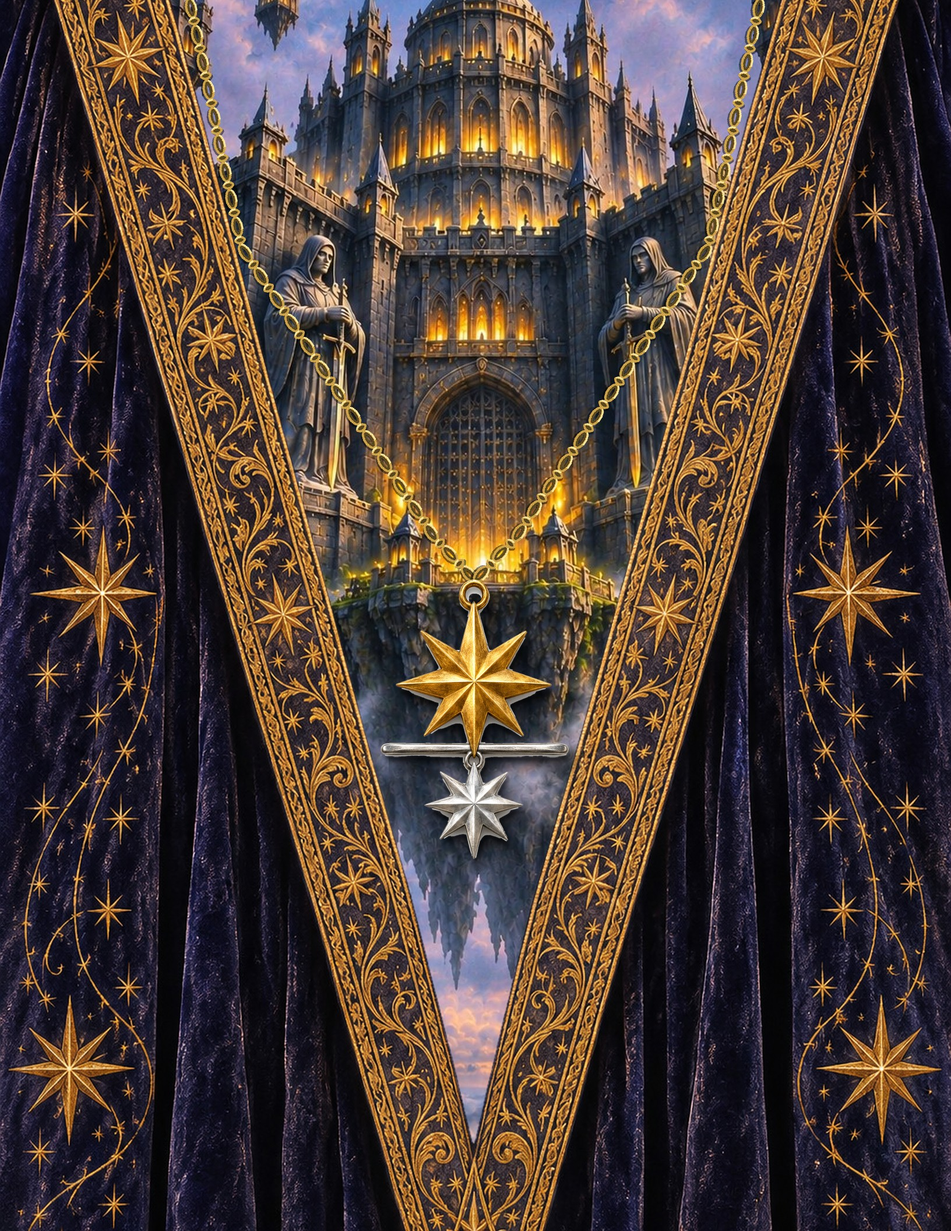
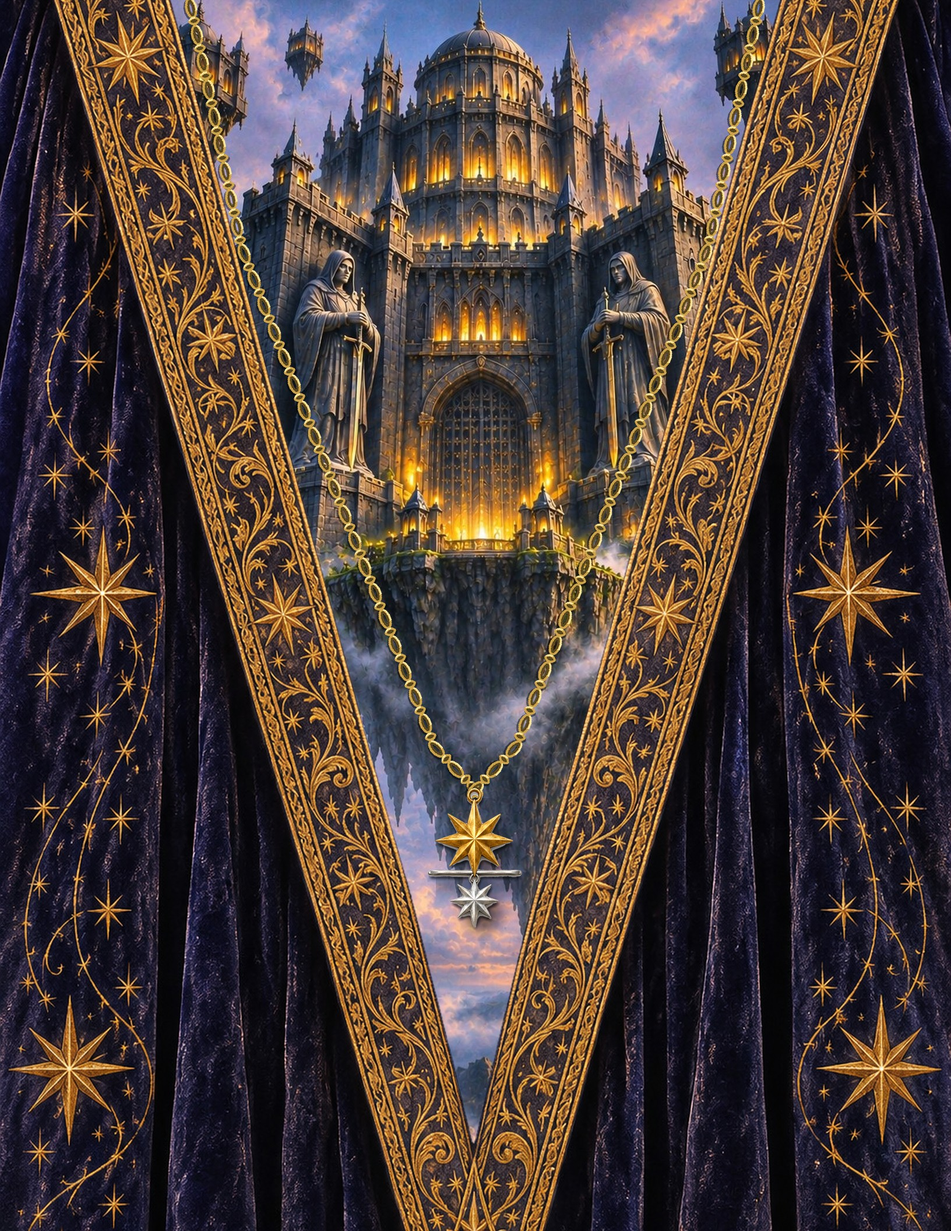
Prison Without Doors: final art
Claude-Session: https://claude.ai/code/session_01QqMC3jV4Jm9bLjV1D99fiy

Changed region(s): [[0.1562, 0.0, 0.8438, 0.9062]]

diff --git a/oneshots/prison-without-doors/homebrewery-source.md b/oneshots/prison-without-doors/homebrewery-source.md
@@ -124,7 +124,7 @@
 <div class="running" style="--accent:#3e4a5c"><span>The Prison Without Doors</span><span>GM</span></div><div class="pf-body columns" style="--accent:#3e4a5c"><div class="layout-cols"><div class="flow-col"><h2>1 / Running this adventure</h2>
 <h3>What's really going on</h3>
 <ul>
-<li><strong>Blacktide Bastion</strong> is a prison older than THK, built when nearly everyone had magic, and it looks exactly like what it is. It is a <strong>massive floating fortress</strong> with raw rock beneath it. Smaller sections hang around and above it (the <strong>high-security wing</strong> sits highest of all), each linked to the main block by <strong>enormous chains</strong>.</li>
+<li><strong>Blacktide Bastion</strong> is a prison older than THK, built when nearly everyone had magic, and it looks exactly like what it is. It is a <strong>massive floating fortress</strong> with raw rock beneath it. Crowning it is the <strong>high-security wing</strong>: a great domed rotunda on columns, open to the sky between them. Smaller sections float either side, each linked to the main block by <strong>enormous chains</strong>.</li>
 <li><strong>How it stays up.</strong> Ancient levitation magic keeps every section afloat. <strong>Anchor rods</strong>, set deep in the rock and working like great immovable rods, hold each section fixed in the sky. Without them, a strong wind would drift the whole prison away. The chains and rods were protected against rust and age by their builders, and still are.</li>
 <li><strong>The defences.</strong> Statues line every wall and ledge, each built to strike with a different kind of magic, so that nothing is resisted. Anything that comes too close, they shoot. <strong>The only safe way in or out is the transport platform</strong>, which floats between the prison and Port Bastion. Even on the platform, an arm stuck out too far gets shot.</li>
 <li><strong>Who runs it.</strong> Nobody living built it. A few hundred years ago, an earlier Lord Xanthos found it and brought its lost platform down to Port Bastion. Under the THK dynasty, its staff took binding contracts and truth-spells, and there was never any trouble. <strong>Since the Free Cities won their independence, about fifty years ago, the Free Cities have run it.</strong> The staff have changed, and the prison runs on trust. Mostly that works. A few have been bought.</li>
@@ -206,7 +206,7 @@
 \page
 <div class="running" style="--accent:#3e4a5c"><span>The Prison Without Doors</span><span>GM</span></div><div class="pf-body columns" style="--accent:#3e4a5c"><figure class="tb-banner" style="height:160px"><img alt="" src="https://oberonandomegaid.github.io/aelderia/oneshots/prison-without-doors/img/banner-setting.jpg" style="object-position:50% 50%"></figure><div class="layout-cols"><div class="flow-col"><h3>The setting</h3>
 <p><strong>Port Bastion</strong> is an ancient fortress cut into a mountainside above sheer cliffs and deep sea, its old ballistae and trebuchets still on the walls. It is a busy trading harbour now. Ships come in by two safe channels, left and right; between them lie sandbanks, rocks and wrecks.</p>
-<p>High above the harbour floats <strong>Blacktide Bastion</strong>: a black stone fortress with rock hanging beneath it, its outlying sections chained to it, the high-security wing highest of all. The <strong>transport platform</strong> floats up and down between the prison and the port, carrying guards, food and prisoners.</p>
+<p>High above the harbour floats <strong>Blacktide Bastion</strong>: a black stone fortress with rock hanging beneath it, its outlying sections chained to it, the domed high-security wing crowning it all. The <strong>transport platform</strong> floats up and down between the prison and the port, carrying guards, food and prisoners.</p>
 <h3>The statues</h3>
 <p>Every wall, tower and ledge of the Bastion carries <strong>statues</strong>, repeating all the way round. A great stone <strong>frog</strong> with its mouth open, that spits acid. A <strong>robed figure</strong> that hurls lightning. A <strong>lion</strong> that breathes fireballs. A <strong>many-handed figure</strong> that fills the air with magic missiles. Frost, thunder, poison: every kind of magic its builders could think of, so nothing can resist them all.</p>
 <p><strong>Anything that comes too close, they shoot.</strong> The platform is the only exception, and only while you stay on it.</p>
